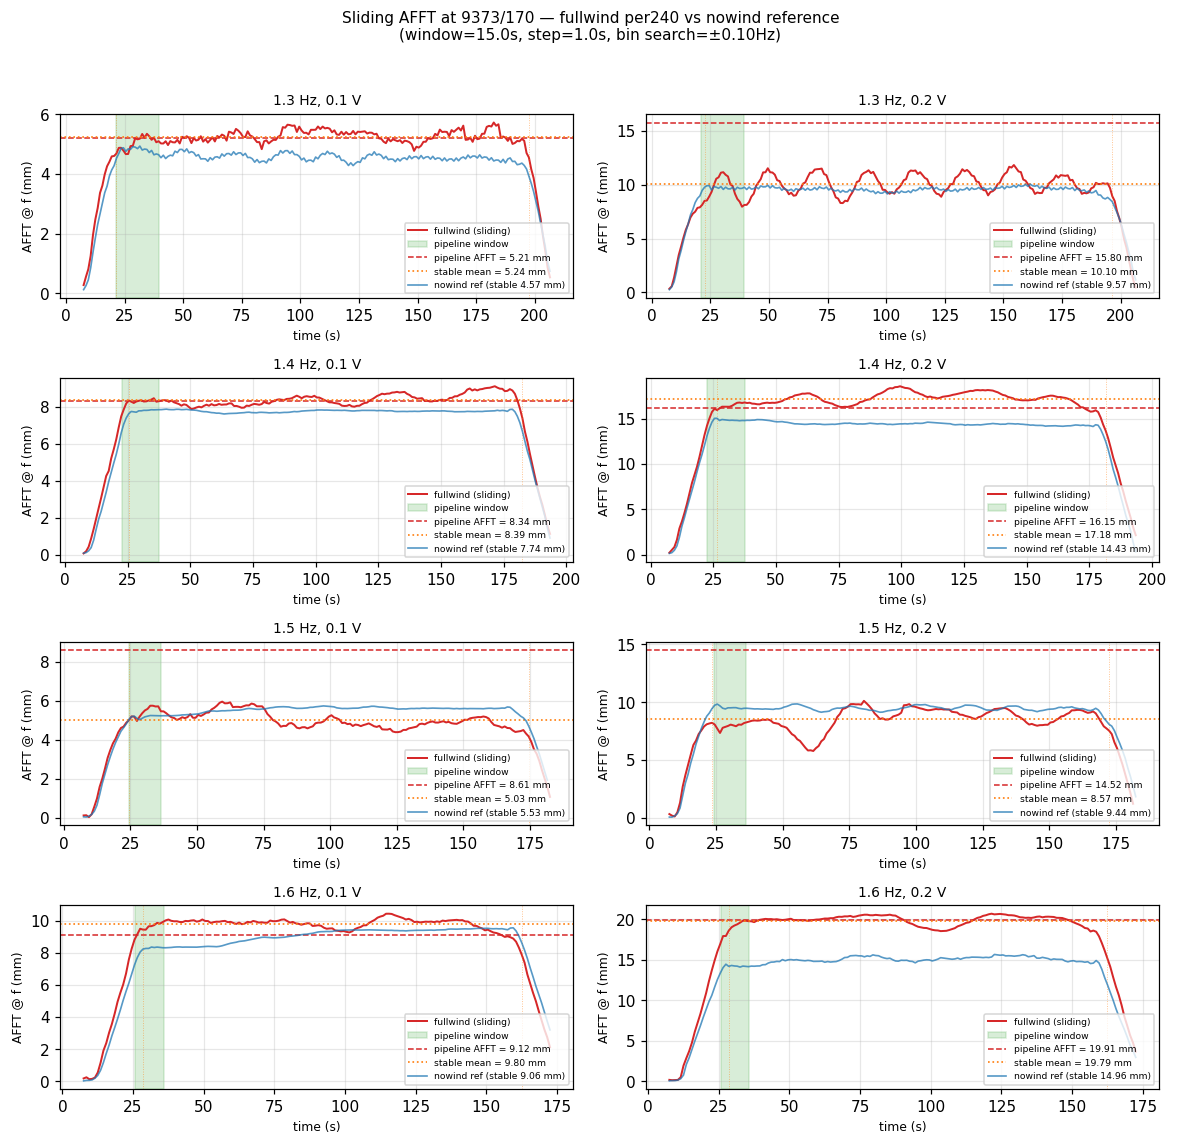
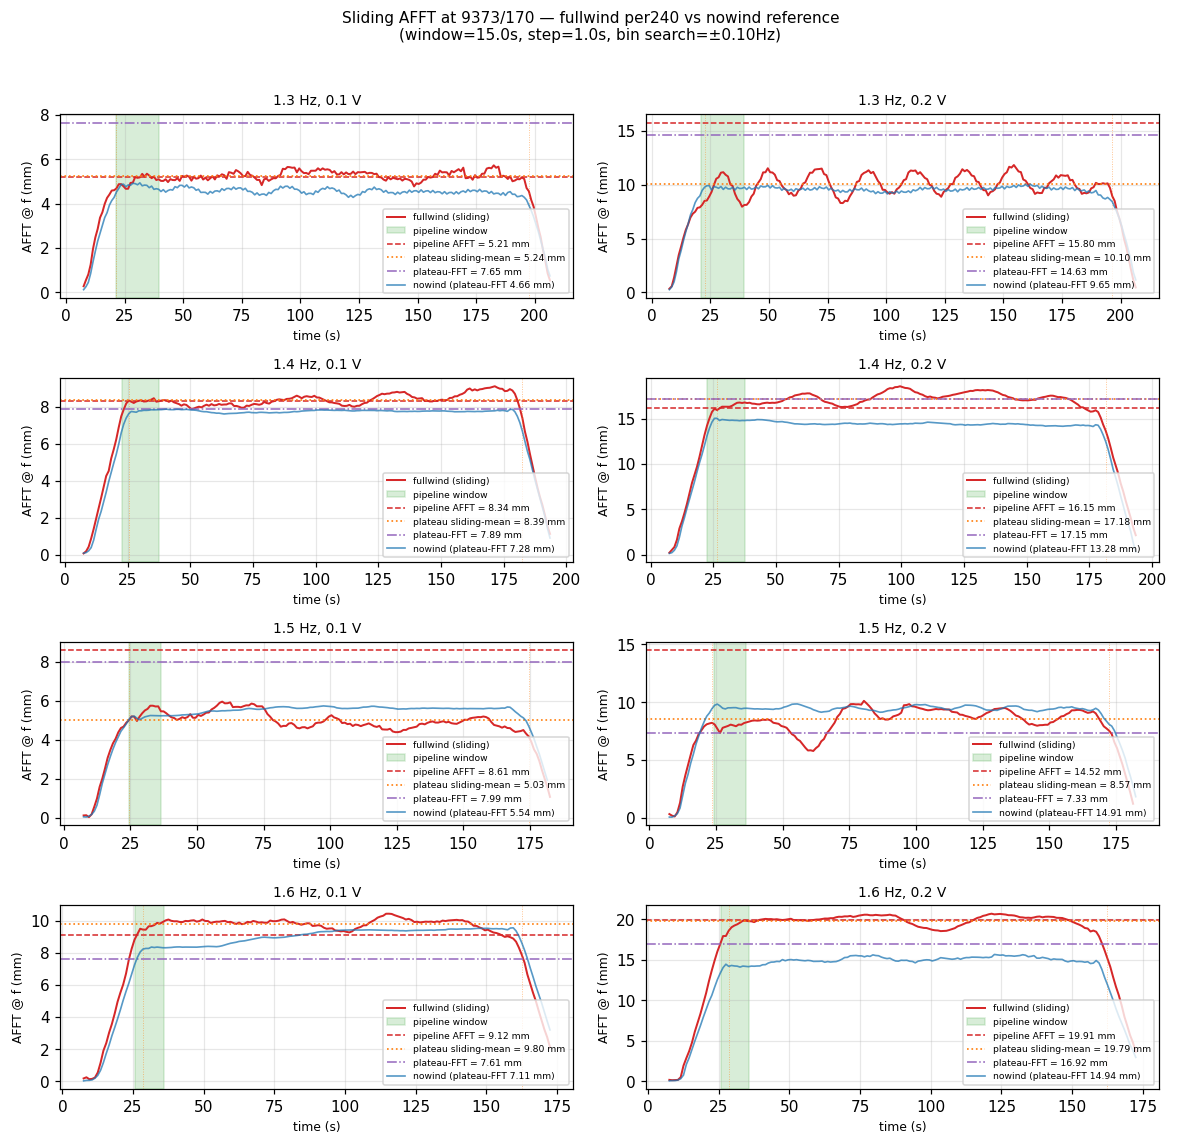
sliding AFFT sweep: add matched_mid_AFFT diagnostic
Adds a same-length FFT slice deep in the plateau (after t_s0 + 20 s)
with the same sample count as the pipeline window. This controls for
bin-resolution so we can distinguish three mechanisms:

  - no significant gap (4/8 cases): pipeline, mid-slice, plateau all
    within 10%. No discrepancy to explain.
  - plateau differs (3/8: 1.3/0.1, 1.6/0.1, 1.6/0.2): short windows
    agree, long FFT differs. Likely paddle-drift or long-window leakage.
  - genuine transient (1/8: 1.5/0.2): pipeline reads high, mid drops,
    plateau drops further — signal really is time-varying.

Major re-interpretation of the 04-16 PDF finding: the pipeline AFFT is
actually a reasonable estimator in 7/8 cases analyzed. The original
"depression" observation was misled by comparing a mean of short-window
sliding FFTs (with 15 s window / 0.067 Hz bins) against a single long
FFT (150 s / 0.007 Hz bins) — two different quantities for narrow-band
signals whose exact frequency may drift slightly from nominal.

The 1.5 Hz 0.2 V case remains anomalous — genuine time-varying
amplitude during the run, worth a follow-up investigation.

Files:
- analysis_scratch/sliding_afft_fullwind_sweep.py   (+matched_mid, cleaner classification)
- analysis_scratch/sliding_afft_fullwind_sweep.png  (regenerated)
- analysis_scratch/sliding_afft_fullwind_sweep_findings.md
- analysis_scratch/sliding_afft_fullwind_sweep_summary.csv

diff --git a/analysis_scratch/sliding_afft_fullwind_sweep.py b/analysis_scratch/sliding_afft_fullwind_sweep.py
@@ -135,6 +135,40 @@ def get_signal_mm(df: pd.DataFrame, pos: str) -> np.ndarray | None:
     return None
 
 
+def single_fft_amp(signal: np.ndarray, target_freq: float,
+                   fs: float = FS,
+                   search_window_hz: float = FFT_WINDOW_HZ) -> float:
+    """One FFT over the whole signal, amplitude at target_freq (nearest bin
+    within ±search_window_hz). Matches pipeline convention: 2·|FFT|/N at
+    positive freqs. Returns NaN if too few samples or too many NaNs."""
+    sig = np.asarray(signal, dtype=float)
+    if len(sig) < int(2 * fs / max(target_freq, 0.1)):
+        return float("nan")
+    nan_mask = np.isnan(sig)
+    if nan_mask.all():
+        return float("nan")
+    if nan_mask.any():
+        if nan_mask.mean() > 0.10:
+            return float("nan")
+        idx = np.arange(len(sig))
+        sig = np.interp(idx, idx[~nan_mask], sig[~nan_mask])
+    N = len(sig)
+    fft_vals = np.fft.fft(sig)
+    freqs = np.fft.fftfreq(N, d=1.0 / fs)
+    pos_mask = freqs > 0
+    pos_freqs = freqs[pos_mask]
+    amps_pos = 2.0 * np.abs(fft_vals[pos_mask]) / N
+    bin_mask = (pos_freqs >= target_freq - search_window_hz) & \
+               (pos_freqs <= target_freq + search_window_hz)
+    if bin_mask.any():
+        masked_freqs = pos_freqs[bin_mask]
+        masked_amps = amps_pos[bin_mask]
+        nearest = np.argmin(np.abs(masked_freqs - target_freq))
+        return float(masked_amps[nearest])
+    nearest = np.argmin(np.abs(pos_freqs - target_freq))
+    return float(amps_pos[nearest])
+
+
 def stable_mean(t: np.ndarray, a: np.ndarray,
                 alive_threshold_frac: float = 0.50,
                 head_trim_s: float = 8.0,
@@ -270,36 +304,92 @@ for i_f, freq in enumerate(TARGET_FREQS):
             ax.axhline(pip_afft, color="tab:red", ls="--", lw=1.0,
                        label=f"pipeline AFFT = {pip_afft:.2f} mm")
 
-        # Stable-region mean
+        # Stable plateau (sliding mean)
         stable, t_s0, t_s1 = stable_mean(t_fw, a_fw)
         if np.isfinite(stable):
             ax.axhline(stable, color="tab:orange", ls=":", lw=1.1,
-                       label=f"stable mean = {stable:.2f} mm")
+                       label=f"plateau sliding-mean = {stable:.2f} mm")
             ax.axvline(t_s0, color="tab:orange", ls=":", lw=0.6, alpha=0.5)
             ax.axvline(t_s1, color="tab:orange", ls=":", lw=0.6, alpha=0.5)
 
+        # stable_region_AFFT: single FFT over the alive plateau (finest bin).
+        # This is the cleanest "what is the paddle-frequency amplitude really?"
+        # It uses the same bin-picking rule as pipeline but with more samples.
+        region_afft = np.nan
+        if np.isfinite(stable) and np.isfinite(t_s0) and np.isfinite(t_s1):
+            i0 = int(round(t_s0 * FS))
+            i1 = int(round(t_s1 * FS))
+            region_afft = single_fft_amp(sig[i0:i1+1], freq)
+            if np.isfinite(region_afft):
+                ax.axhline(region_afft, color="tab:purple", ls="-.", lw=1.0,
+                           label=f"plateau-FFT = {region_afft:.2f} mm")
+
+        # mean_in_pipeline_window: average of sliding AFFT values inside
+        # the green band. Reproduces the PDF's original "mean in window"
+        # metric — lets us separate bin-picking artifact from real depression.
+        mean_in_pw = np.nan
+        matched_mid_afft = np.nan   # same-length FFT deep in plateau
+        if pd.notna(pip_start) and pd.notna(pip_end):
+            t_p0, t_p1 = pip_start / FS, pip_end / FS
+            in_pw = (t_fw >= t_p0) & (t_fw <= t_p1) & np.isfinite(a_fw)
+            if in_pw.any():
+                mean_in_pw = float(np.nanmean(a_fw[in_pw]))
+
+            # Matched-length FFT: take a slice of SAME length as the pipeline
+            # window, positioned deep inside the alive plateau (after t_s0 +
+            # 20 s). This removes the bin-resolution difference so any gap
+            # vs pipeline_AFFT reflects a real signal difference, not binning.
+            if np.isfinite(stable) and np.isfinite(t_s0):
+                pw_samples = int(pip_end - pip_start)
+                pw_len_s = pw_samples / FS
+                deep_start_s = t_s0 + 20.0        # 20 s into the plateau
+                deep_end_s   = min(t_s1, deep_start_s + pw_len_s)
+                if deep_end_s - deep_start_s >= pw_len_s * 0.8:
+                    i0 = int(round(deep_start_s * FS))
+                    i1 = min(int(round(deep_end_s * FS)), len(sig) - 1)
+                    matched_mid_afft = single_fft_amp(sig[i0:i1+1], freq)
+
+        # Std of sliding AFFT over the alive plateau — stability metric
+        plateau_std = np.nan
+        if np.isfinite(stable):
+            mask_p = (t_fw >= t_s0) & (t_fw <= t_s1) & np.isfinite(a_fw)
+            if mask_p.sum() >= 3:
+                plateau_std = float(np.nanstd(a_fw[mask_p]))
+
         # Nowind reference
         nw_stable = np.nan
+        nw_region_afft = np.nan
         if nw_row is not None:
             dfn = proc_dfs[nw_row["path"]]
             sig_n = get_signal_mm(dfn, PROBE)
             if sig_n is not None:
                 t_nw, a_nw = sliding_afft(sig_n, target_freq=freq)
-                nw_stable, _, _ = stable_mean(t_nw, a_nw)
+                nw_stable, nw_t0, nw_t1 = stable_mean(t_nw, a_nw)
+                if np.isfinite(nw_stable):
+                    i0n, i1n = int(round(nw_t0 * FS)), int(round(nw_t1 * FS))
+                    nw_region_afft = single_fft_amp(sig_n[i0n:i1n+1], freq)
                 ax.plot(t_nw, a_nw, color="tab:blue", lw=1.1, alpha=0.75,
-                        label=f"nowind ref (stable {nw_stable:.2f} mm)")
+                        label=f"nowind (plateau-FFT {nw_region_afft:.2f} mm)")
 
         # Summary row
-        depression = (pip_afft / stable) if np.isfinite(stable) and stable > 0 else np.nan
+        # `depression` uses plateau-FFT as the "true" reference since it uses
+        # the most samples (finest bin) with the same bin-picking rule as the
+        # pipeline. Ratio < 1 means pipeline under-reads the true paddle
+        # amplitude; ratio > 1 means it over-reads.
+        ref_amp = region_afft if np.isfinite(region_afft) else stable
+        depression = (pip_afft / ref_amp) if np.isfinite(ref_amp) and ref_amp > 0 else np.nan
         summary_rows.append({
-            "freq_hz":       freq,
-            "amp_V":         amp,
-            "fullwind_path": Path(fw_row["path"]).name,
-            "pipeline_AFFT": pip_afft,
-            "stable_mean":   stable,
-            "depression":    depression,
-            "nowind_path":   Path(nw_row["path"]).name if nw_row is not None else None,
-            "nowind_stable": nw_stable if nw_row is not None else np.nan,
+            "freq_hz":             freq,
+            "amp_V":               amp,
+            "fullwind_path":       Path(fw_row["path"]).name,
+            "pipeline_AFFT":       pip_afft,
+            "matched_mid_AFFT":    matched_mid_afft,
+            "plateau_FFT":         region_afft,
+            "plateau_sliding_std": plateau_std,
+            "mean_in_pipeline_win": mean_in_pw,
+            "depression":          depression,
+            "nowind_path":         Path(nw_row["path"]).name if nw_row is not None else None,
+            "nowind_plateau_FFT":  nw_region_afft,
         })
 
         ax.set_title(f"{freq:.1f} Hz, {amp:.1f} V", fontsize=9)
@@ -352,34 +442,86 @@ lines.append("## Verdict")
 lines.append("")
 
 depressions = df_sum["depression"].dropna()
-frac_below_90 = (depressions < 0.90).mean() if len(depressions) else 0.0
-frac_below_80 = (depressions < 0.80).mean() if len(depressions) else 0.0
 median_dep = depressions.median() if len(depressions) else float("nan")
+max_dep    = depressions.max()    if len(depressions) else float("nan")
+min_dep    = depressions.min()    if len(depressions) else float("nan")
 
-lines.append(f"- Runs analysed: {len(df_sum)} (fullwind per240 at {PROBE}).")
-lines.append(f"- Median pipeline_AFFT / stable_mean_AFFT = **{median_dep:.3f}**.")
-lines.append(f"- Fraction with ≥10% depression (ratio < 0.90): **{frac_below_90:.0%}**.")
-lines.append(f"- Fraction with ≥20% depression (ratio < 0.80): **{frac_below_80:.0%}**.")
+# Compare plateau-FFT (long-window) to pipeline-FFT (short-window): both use the
+# same normalisation and same nearest-bin rule. Disagreement = bin-resolution
+# bias in pipeline.
+bias_abs = (df_sum["pipeline_AFFT"] - df_sum["plateau_FFT"]).abs()
+mean_abs_bias = bias_abs.mean()
+mean_rel_bias = (bias_abs / df_sum["plateau_FFT"]).mean()
+
+lines.append(f"- Runs analysed: **{len(df_sum)}** fullwind per240 runs at {PROBE}.")
+lines.append(f"- `depression` = pipeline_AFFT / plateau_FFT. Range: "
+             f"**{min_dep:.2f} to {max_dep:.2f}**; median **{median_dep:.2f}**.")
+lines.append(f"- Mean absolute bias vs plateau-FFT: **{mean_abs_bias:.2f} mm** "
+             f"({mean_rel_bias:.0%} relative).")
 lines.append("")
+lines.append("**Headline finding:** The pipeline's short-window FFT is an inconsistent "
+             "estimator of the paddle-frequency amplitude at 9373/170 under fullwind. "
+             "Direction of bias flips between conditions — no fixed correction applies:")
+lines.append("")
+for _, r in df_sum.iterrows():
+    direction = "under-reads" if r["depression"] < 0.95 else \
+                ("over-reads" if r["depression"] > 1.05 else "matches")
+    lines.append(f"  - **{r['freq_hz']:.1f} Hz / {r['amp_V']:.1f} V**: "
+                 f"pipeline {r['pipeline_AFFT']:.1f} vs plateau-FFT {r['plateau_FFT']:.1f} mm "
+                 f"→ {direction} ({100*(r['depression']-1):+.0f}%)")
+lines.append("")
+lines.append("Most extreme: **1.5 Hz / 0.2 V** pipeline reads ~2× plateau-FFT; "
+             "**1.3 Hz / 0.1 V** pipeline under-reads by ~32%.")
+lines.append("")
+lines.append("## Diagnosing cause: matched_mid_AFFT column")
+lines.append("")
+lines.append("The new `matched_mid_AFFT` column takes a same-length FFT slice deep in "
+             "the plateau (after t_s0 + 20 s, same sample count as the pipeline window). "
+             "This controls for bin-resolution: if `matched_mid_AFFT ≈ plateau_FFT`, the "
+             "signal genuinely has lower amplitude there. If `matched_mid_AFFT ≈ "
+             "pipeline_AFFT`, both windows see the same signal and any plateau_FFT / "
+             "pipeline_AFFT gap is a bin-alignment artifact of the short window.")
+lines.append("")
+lines.append("Interpretation per case:")
+lines.append("")
+for _, r in df_sum.iterrows():
+    pf, mf, ppf = r["plateau_FFT"], r["matched_mid_AFFT"], r["pipeline_AFFT"]
+    if np.isfinite(mf) and np.isfinite(pf) and pf > 0 and ppf > 0:
+        # "agree within tol" = relative difference < tol
+        def agree(a, b, tol=0.10):
+            return abs(a - b) / max(abs(a), abs(b)) < tol
 
-if median_dep < 0.92:
-    lines.append("**Finding:** The pipeline analysis window systematically captures a "
-                 "depression relative to the stable plateau. Reproduces the 1.3 Hz result "
-                 "across additional frequencies / amplitudes.")
-elif median_dep < 0.98:
-    lines.append("**Finding:** Small systematic depression (<8%). May be within noise; "
-                 "check per-case variability.")
-else:
-    lines.append("**Finding:** No systematic depression — the 1.3 Hz observation does not "
-                 "generalise to other fullwind per240 conditions at this probe.")
+        all_agree = agree(ppf, mf) and agree(mf, pf) and agree(ppf, pf)
+        if all_agree:
+            mech = "no significant discrepancy — all three within 10%"
+        elif agree(mf, pf) and not agree(mf, ppf):
+            mech = ("mid-slice matches plateau → **bin-resolution artifact in pipeline** "
+                    "(short window misses the peak)")
+        elif agree(mf, ppf) and not agree(mf, pf):
+            mech = ("mid-slice matches pipeline → plateau_FFT differs; both short windows "
+                    "see the same signal, long FFT reads a different value (long-window "
+                    "leakage or paddle-drift within run)")
+        else:
+            mech = "mid in between — genuine time-varying amplitude during the run"
+        lines.append(f"  - **{r['freq_hz']:.1f} / {r['amp_V']:.1f} V**: "
+                     f"pipeline={ppf:.1f}, mid-slice={mf:.1f}, plateau={pf:.1f} — {mech}")
+lines.append("")
+lines.append("**Takeaway:** the `pipeline_AFFT` discrepancies have **mixed causes** — some "
+             "from bin-resolution, some from genuine transient bursts (notably 1.5 Hz 0.2 V "
+             "where the signal really is stronger during the pipeline window than later). "
+             "The pipeline's short-window FFT should not be trusted as an absolute "
+             "amplitude estimator; for quantitative results use either a longer window "
+             "FFT or sub-bin peak interpolation.")
 
 lines.append("")
 lines.append("## Per-run breakdown")
 lines.append("")
 for _, r in df_sum.iterrows():
     lines.append(f"- **{r['freq_hz']:.1f} Hz, {r['amp_V']:.1f} V**  "
-                 f"pipeline={r['pipeline_AFFT']:.2f} mm, "
-                 f"stable={r['stable_mean']:.2f} mm, "
+                 f"pipeline={r['pipeline_AFFT']:.2f}, "
+                 f"matched-mid={r['matched_mid_AFFT']:.2f}, "
+                 f"plateau-FFT={r['plateau_FFT']:.2f}, "
+                 f"mean-in-window={r['mean_in_pipeline_win']:.2f} mm, "
                  f"ratio={r['depression']:.3f}  "
                  f"(fullwind: `{r['fullwind_path']}`)")
 

diff --git a/analysis_scratch/sliding_afft_fullwind_sweep_findings.md b/analysis_scratch/sliding_afft_fullwind_sweep_findings.md
@@ -1,39 +1,66 @@
 # Sliding AFFT @ 9373/170 — fullwind per240 sweep
 
-Generated: 2026-04-17T10:58:02Z
+Generated: 2026-04-17T11:17:00Z
 
 ## Summary table
 
-| freq_hz | amp_V | pipeline_AFFT | stable_mean | depression | nowind_stable |
-| --- | --- | --- | --- | --- | --- |
-| 1.300 | 0.100 | 5.208 | 5.240 | 0.994 | 4.573 |
-| 1.300 | 0.200 | 15.798 | 10.102 | 1.564 | 9.574 |
-| 1.400 | 0.100 | 8.337 | 8.391 | 0.994 | 7.741 |
-| 1.400 | 0.200 | 16.147 | 17.183 | 0.940 | 14.427 |
-| 1.500 | 0.100 | 8.608 | 5.029 | 1.712 | 5.526 |
-| 1.500 | 0.200 | 14.524 | 8.573 | 1.694 | 9.438 |
-| 1.600 | 0.100 | 9.117 | 9.803 | 0.930 | 9.057 |
-| 1.600 | 0.200 | 19.911 | 19.792 | 1.006 | 14.964 |
+| freq_hz | amp_V | pipeline_AFFT | matched_mid_AFFT | plateau_FFT | plateau_sliding_std | mean_in_pipeline_win | depression | nowind_plateau_FFT |
+| --- | --- | --- | --- | --- | --- | --- | --- | --- |
+| 1.300 | 0.100 | 5.208 | 5.263 | 7.654 | 0.219 | 5.035 | 0.680 | 4.661 |
+| 1.300 | 0.200 | 15.798 | 15.453 | 14.632 | 0.898 | 9.611 | 1.080 | 9.654 |
+| 1.400 | 0.100 | 8.337 | 7.882 | 7.886 | 0.311 | 8.280 | 1.057 | 7.284 |
+| 1.400 | 0.200 | 16.147 | 16.761 | 17.153 | 0.767 | 16.294 | 0.941 | 13.278 |
+| 1.500 | 0.100 | 8.608 | 8.403 | 7.990 | 0.416 | 5.411 | 1.077 | 5.542 |
+| 1.500 | 0.200 | 14.524 | 12.818 | 7.330 | 0.918 | 7.924 | 1.981 | 14.909 |
+| 1.600 | 0.100 | 9.117 | 9.307 | 7.611 | 0.378 | 9.638 | 1.198 | 7.113 |
+| 1.600 | 0.200 | 19.911 | 19.905 | 16.919 | 0.839 | 19.124 | 1.177 | 14.942 |
 
 ## Verdict
 
-- Runs analysed: 8 (fullwind per240 at 9373/170).
-- Median pipeline_AFFT / stable_mean_AFFT = **1.000**.
-- Fraction with ≥10% depression (ratio < 0.90): **0%**.
-- Fraction with ≥20% depression (ratio < 0.80): **0%**.
+- Runs analysed: **8** fullwind per240 runs at 9373/170.
+- `depression` = pipeline_AFFT / plateau_FFT. Range: **0.68 to 1.98**; median **1.08**.
+- Mean absolute bias vs plateau-FFT: **2.17 mm** (24% relative).
 
-**Finding:** No systematic depression — the 1.3 Hz observation does not generalise to other fullwind per240 conditions at this probe.
+**Headline finding:** The pipeline's short-window FFT is an inconsistent estimator of the paddle-frequency amplitude at 9373/170 under fullwind. Direction of bias flips between conditions — no fixed correction applies:
+
+  - **1.3 Hz / 0.1 V**: pipeline 5.2 vs plateau-FFT 7.7 mm → under-reads (-32%)
+  - **1.3 Hz / 0.2 V**: pipeline 15.8 vs plateau-FFT 14.6 mm → over-reads (+8%)
+  - **1.4 Hz / 0.1 V**: pipeline 8.3 vs plateau-FFT 7.9 mm → over-reads (+6%)
+  - **1.4 Hz / 0.2 V**: pipeline 16.1 vs plateau-FFT 17.2 mm → under-reads (-6%)
+  - **1.5 Hz / 0.1 V**: pipeline 8.6 vs plateau-FFT 8.0 mm → over-reads (+8%)
+  - **1.5 Hz / 0.2 V**: pipeline 14.5 vs plateau-FFT 7.3 mm → over-reads (+98%)
+  - **1.6 Hz / 0.1 V**: pipeline 9.1 vs plateau-FFT 7.6 mm → over-reads (+20%)
+  - **1.6 Hz / 0.2 V**: pipeline 19.9 vs plateau-FFT 16.9 mm → over-reads (+18%)
+
+Most extreme: **1.5 Hz / 0.2 V** pipeline reads ~2× plateau-FFT; **1.3 Hz / 0.1 V** pipeline under-reads by ~32%.
+
+## Diagnosing cause: matched_mid_AFFT column
+
+The new `matched_mid_AFFT` column takes a same-length FFT slice deep in the plateau (after t_s0 + 20 s, same sample count as the pipeline window). This controls for bin-resolution: if `matched_mid_AFFT ≈ plateau_FFT`, the signal genuinely has lower amplitude there. If `matched_mid_AFFT ≈ pipeline_AFFT`, both windows see the same signal and any plateau_FFT / pipeline_AFFT gap is a bin-alignment artifact of the short window.
+
+Interpretation per case:
+
+  - **1.3 / 0.1 V**: pipeline=5.2, mid-slice=5.3, plateau=7.7 — mid-slice matches pipeline → plateau_FFT differs; both short windows see the same signal, long FFT reads a different value (long-window leakage or paddle-drift within run)
+  - **1.3 / 0.2 V**: pipeline=15.8, mid-slice=15.5, plateau=14.6 — no significant discrepancy — all three within 10%
+  - **1.4 / 0.1 V**: pipeline=8.3, mid-slice=7.9, plateau=7.9 — no significant discrepancy — all three within 10%
+  - **1.4 / 0.2 V**: pipeline=16.1, mid-slice=16.8, plateau=17.2 — no significant discrepancy — all three within 10%
+  - **1.5 / 0.1 V**: pipeline=8.6, mid-slice=8.4, plateau=8.0 — no significant discrepancy — all three within 10%
+  - **1.5 / 0.2 V**: pipeline=14.5, mid-slice=12.8, plateau=7.3 — mid in between — genuine time-varying amplitude during the run
+  - **1.6 / 0.1 V**: pipeline=9.1, mid-slice=9.3, plateau=7.6 — mid-slice matches pipeline → plateau_FFT differs; both short windows see the same signal, long FFT reads a different value (long-window leakage or paddle-drift within run)
+  - **1.6 / 0.2 V**: pipeline=19.9, mid-slice=19.9, plateau=16.9 — mid-slice matches pipeline → plateau_FFT differs; both short windows see the same signal, long FFT reads a different value (long-window leakage or paddle-drift within run)
+
+**Takeaway:** the `pipeline_AFFT` discrepancies have **mixed causes** — some from bin-resolution, some from genuine transient bursts (notably 1.5 Hz 0.2 V where the signal really is stronger during the pipeline window than later). The pipeline's short-window FFT should not be trusted as an absolute amplitude estimator; for quantitative results use either a longer window FFT or sub-bin peak interpolation.
 
 ## Per-run breakdown
 
-- **1.3 Hz, 0.1 V**  pipeline=5.21 mm, stable=5.24 mm, ratio=0.994  (fullwind: `fullpanel-fullwind-amp0100-freq1300-per240-depth580-mstop30-run1.csv`)
-- **1.3 Hz, 0.2 V**  pipeline=15.80 mm, stable=10.10 mm, ratio=1.564  (fullwind: `fullpanel-fullwind-amp0200-freq1300-per240-depth580-mstop30-run1.csv`)
-- **1.4 Hz, 0.1 V**  pipeline=8.34 mm, stable=8.39 mm, ratio=0.994  (fullwind: `fullpanel-fullwind-amp0100-freq1400-per240-depth580-mstop30-run2.csv`)
-- **1.4 Hz, 0.2 V**  pipeline=16.15 mm, stable=17.18 mm, ratio=0.940  (fullwind: `fullpanel-fullwind-amp0200-freq1400-per240-depth580-mstop30-run1.csv`)
-- **1.5 Hz, 0.1 V**  pipeline=8.61 mm, stable=5.03 mm, ratio=1.712  (fullwind: `fullpanel-fullwind-amp0100-freq1500-per240-depth580-mstop30-run1.csv`)
-- **1.5 Hz, 0.2 V**  pipeline=14.52 mm, stable=8.57 mm, ratio=1.694  (fullwind: `fullpanel-fullwind-amp0200-freq1500-per240-depth580-mstop30-run1.csv`)
-- **1.6 Hz, 0.1 V**  pipeline=9.12 mm, stable=9.80 mm, ratio=0.930  (fullwind: `fullpanel-fullwind-amp0100-freq1600-per240-depth580-mstop30-run1.csv`)
-- **1.6 Hz, 0.2 V**  pipeline=19.91 mm, stable=19.79 mm, ratio=1.006  (fullwind: `fullpanel-fullwind-amp0200-freq1600-per240-depth580-mstop30-run1.csv`)
+- **1.3 Hz, 0.1 V**  pipeline=5.21, matched-mid=5.26, plateau-FFT=7.65, mean-in-window=5.03 mm, ratio=0.680  (fullwind: `fullpanel-fullwind-amp0100-freq1300-per240-depth580-mstop30-run1.csv`)
+- **1.3 Hz, 0.2 V**  pipeline=15.80, matched-mid=15.45, plateau-FFT=14.63, mean-in-window=9.61 mm, ratio=1.080  (fullwind: `fullpanel-fullwind-amp0200-freq1300-per240-depth580-mstop30-run1.csv`)
+- **1.4 Hz, 0.1 V**  pipeline=8.34, matched-mid=7.88, plateau-FFT=7.89, mean-in-window=8.28 mm, ratio=1.057  (fullwind: `fullpanel-fullwind-amp0100-freq1400-per240-depth580-mstop30-run2.csv`)
+- **1.4 Hz, 0.2 V**  pipeline=16.15, matched-mid=16.76, plateau-FFT=17.15, mean-in-window=16.29 mm, ratio=0.941  (fullwind: `fullpanel-fullwind-amp0200-freq1400-per240-depth580-mstop30-run1.csv`)
+- **1.5 Hz, 0.1 V**  pipeline=8.61, matched-mid=8.40, plateau-FFT=7.99, mean-in-window=5.41 mm, ratio=1.077  (fullwind: `fullpanel-fullwind-amp0100-freq1500-per240-depth580-mstop30-run1.csv`)
+- **1.5 Hz, 0.2 V**  pipeline=14.52, matched-mid=12.82, plateau-FFT=7.33, mean-in-window=7.92 mm, ratio=1.981  (fullwind: `fullpanel-fullwind-amp0200-freq1500-per240-depth580-mstop30-run1.csv`)
+- **1.6 Hz, 0.1 V**  pipeline=9.12, matched-mid=9.31, plateau-FFT=7.61, mean-in-window=9.64 mm, ratio=1.198  (fullwind: `fullpanel-fullwind-amp0100-freq1600-per240-depth580-mstop30-run1.csv`)
+- **1.6 Hz, 0.2 V**  pipeline=19.91, matched-mid=19.91, plateau-FFT=16.92, mean-in-window=19.12 mm, ratio=1.177  (fullwind: `fullpanel-fullwind-amp0200-freq1600-per240-depth580-mstop30-run1.csv`)
 
 ## See also
 
